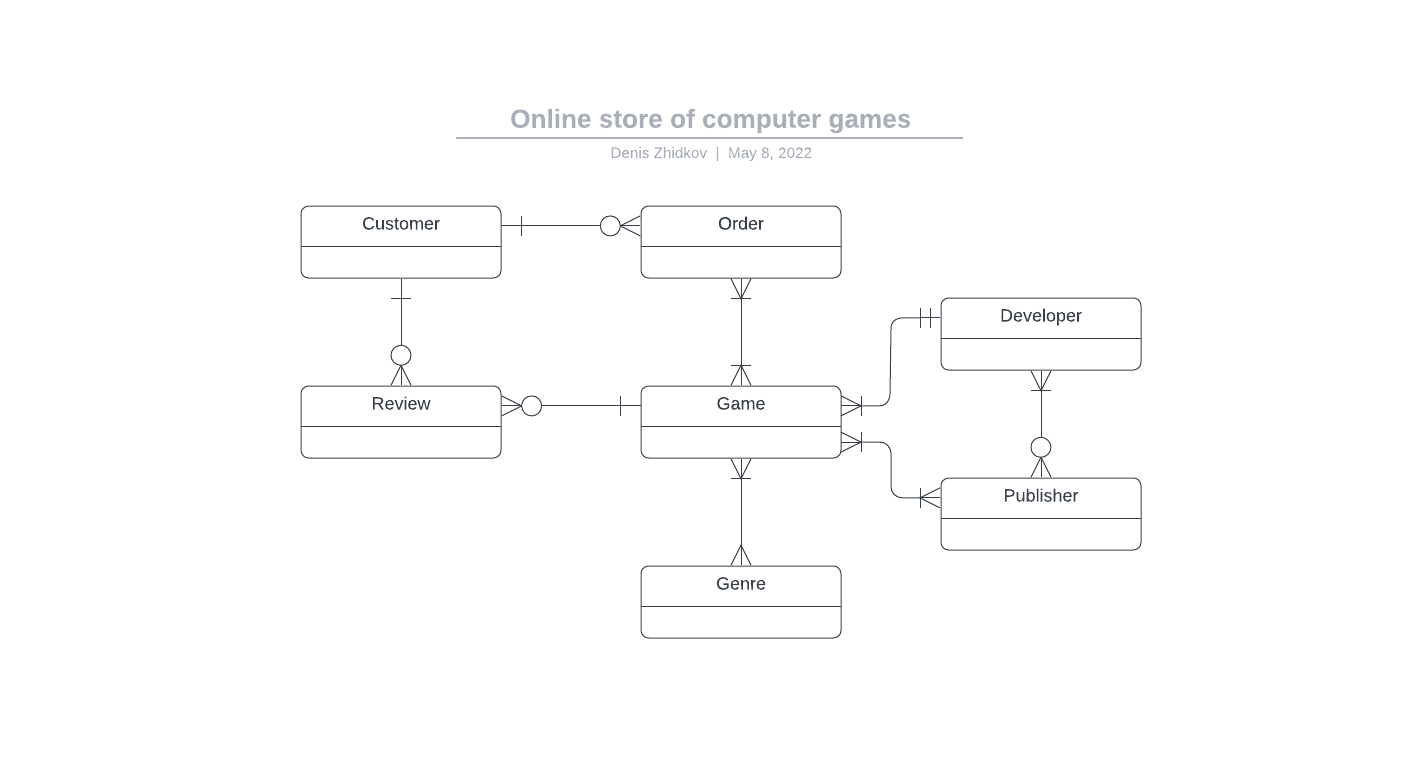
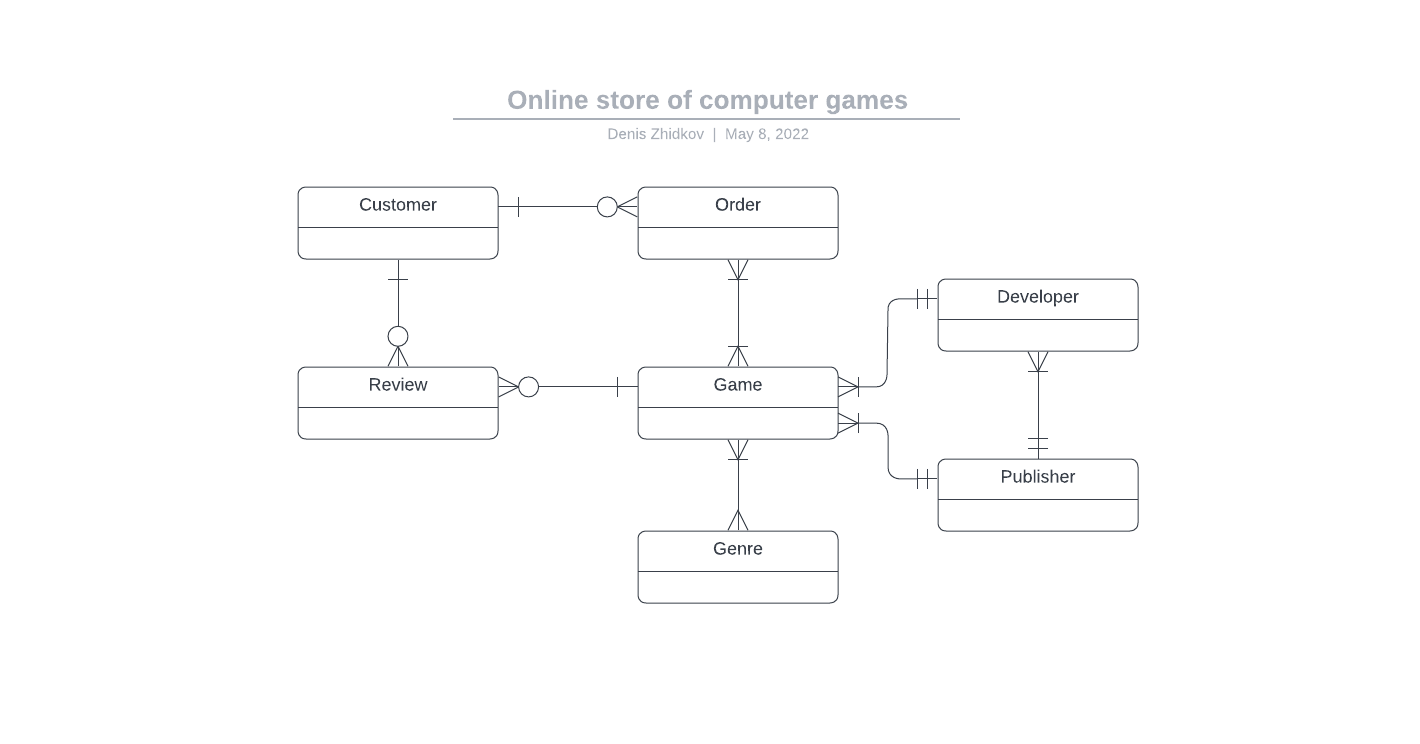
fixes after lab1_2

diff --git a/lab1/lab1_1/README.md b/lab1/lab1_1/README.md
@@ -34,6 +34,7 @@
     developer_id - индетификатор разработчика, который создал игру
     publisher_id - индетификаторы издателей, издавших игру
     name - название игры
+    release_date - дата выхода игры
     price - стоимость игры
     description - описание игры
 
@@ -42,23 +43,23 @@
     id - индетификатор отзыва
     customer_id - индетификатор пользователя, оставившего отзыв
     game_id - индетификатор игры, к которой относится отзыв
-    rate - оценка игры
-    text - тескт отзыва
+    rate - оценка игры (от 0 до 10)
+    review_text - тескт отзыва
 
 **Genre** (Жанр) - информация о жанре игры
     
     id - индетификатор жанра
     name - название жанра
-    popularity - популярность жанра
+    popularity - популярность жанра (от 0 до 100)
 
 **Developer** (Разработчик) - информация о разработчике игры
 
     id - индетификатор разработчика
-    publisher_id - индетификаторы издателей, с которыми работает разработчик
+    publisher_id - индетификаторы издателя, с которыми работает разработчик
     name - название компании разработчика
     country - страна разработчика
     found_date - дата основания компании разработчика
-    game_count - количество, выпщуенных разработчиком игр
+    game_count - количество, выпщуенных разработчиком игр, которые есть в магазине
 
 **Publisher** (Издатель) - информация об издателе игры
     
@@ -66,7 +67,7 @@
     name - название компании издателя
     country - страна издателя
     found_date - дата основания компании издателя
-    game_count - количество, выпущенных под данным издательством игр
+    game_count - количество, выпущенных под данным издательством игр, которые есть в магазине
 
 ### Формирование схемы БД
 
@@ -83,10 +84,10 @@
 - Некоторые покупатели могут не иметь ни одного заказа и ни одного отзыва, однако также возможна ситуация,
 когда у пользователя могут быть только отзывы или только заказы. Естественно возможна и ситуация, когда у пользователя
 есть как заказы, так и отзывы.
-- Любая игра относиться к более, чем одному жанру.
-- У одной игры может быть только один разработчик, но, к примеру, в зависимости от страны разный издатель.
-- Из предыдущего пункта следует, что один разработчик может сотрудничать с несколькими издательствами. Но есть и
-разработчики, выпускающие игры без издательств.
+- Любая игра относиться к более, чем одному жанру (даже в реальности, редки случаи, когда это не так).
+- У одной игры может быть только один разработчик и только один издатель (в реальности дела обстоят иногда иначе, однако
+это скорее исключение, чем правило, поэтому, чтобы излишне не усложнять схему, я допускаю такое упрощение).
+- Разработчик всегда выпускает игру под эгидой какого-то издательства (иногда это сам же разработчик).
 - Отдельный отзыв может относиться только к одной игре, но у одной игры может быть более одного отзыва, а может и не
 быть их вообще.
 
